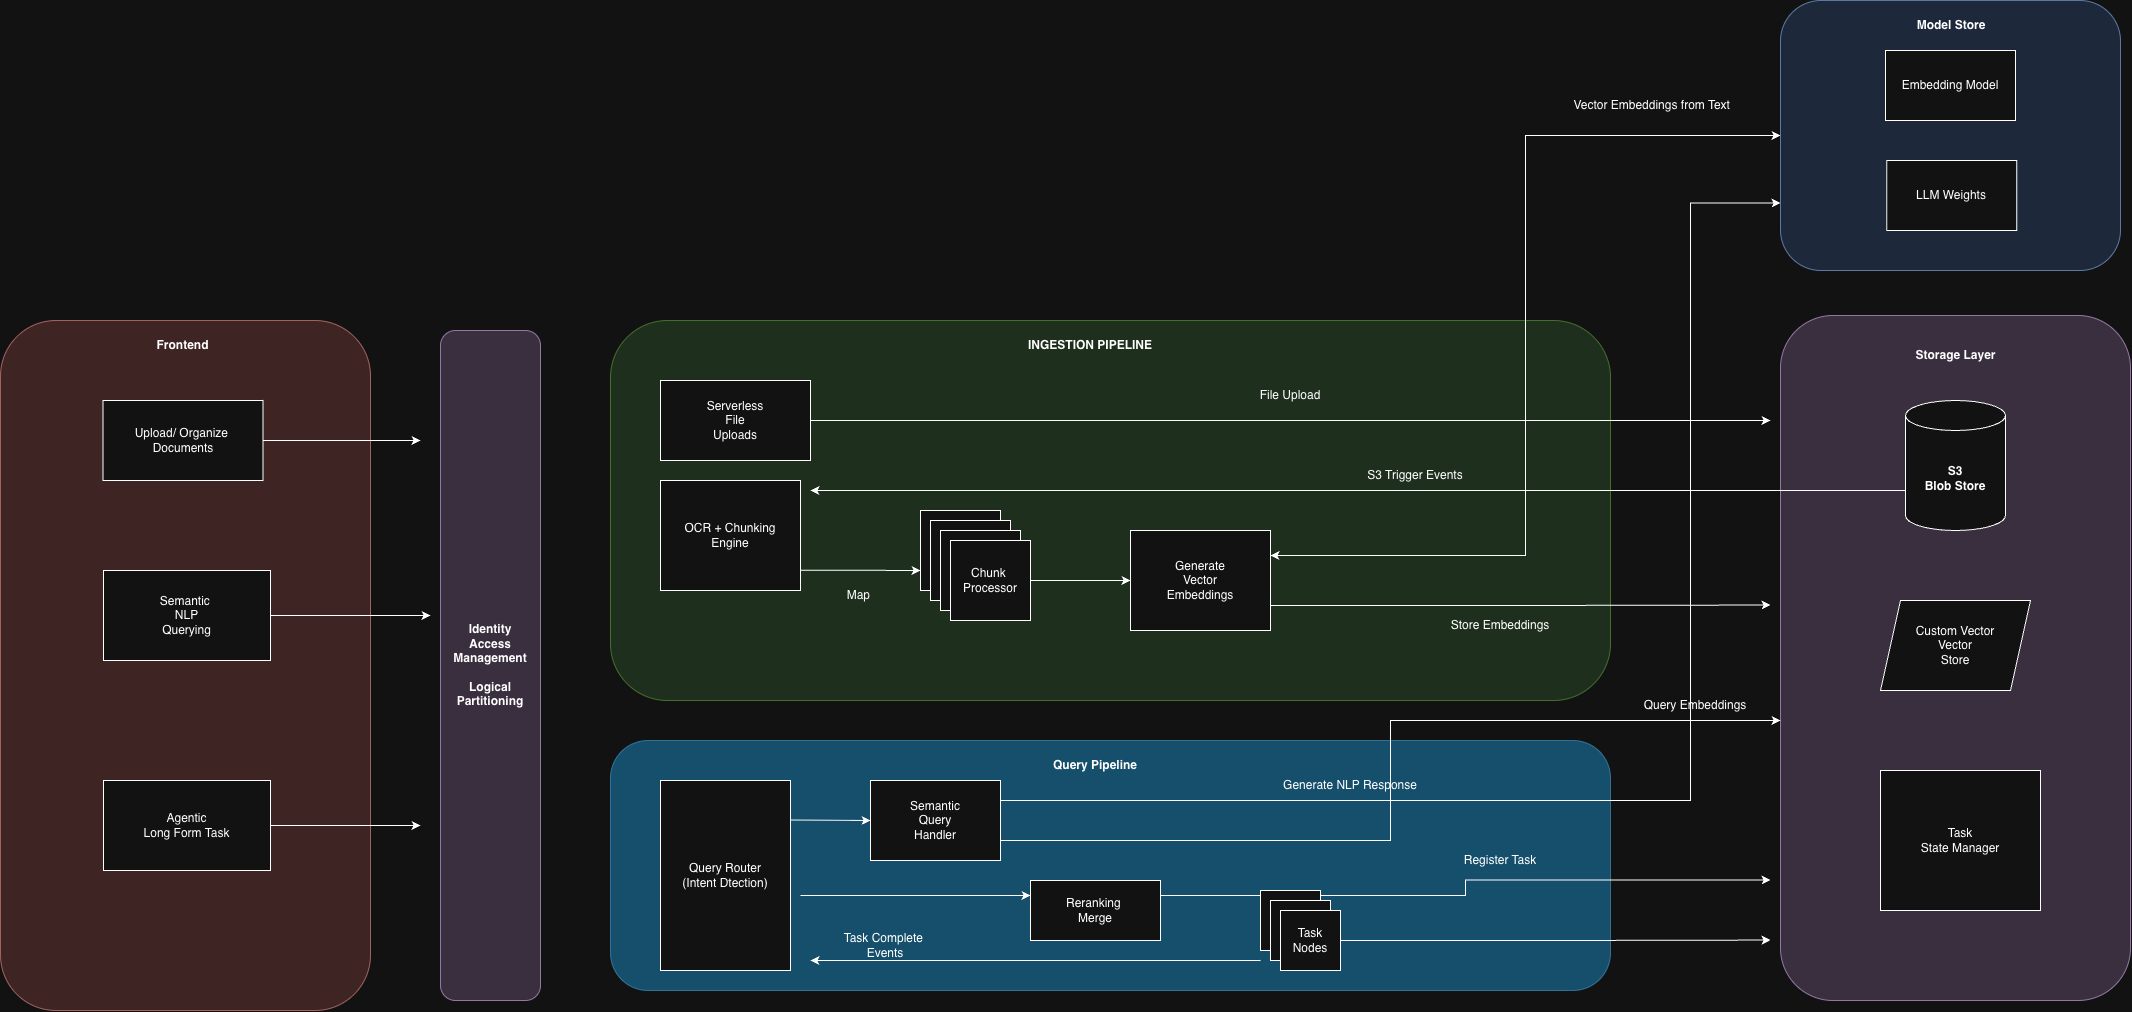
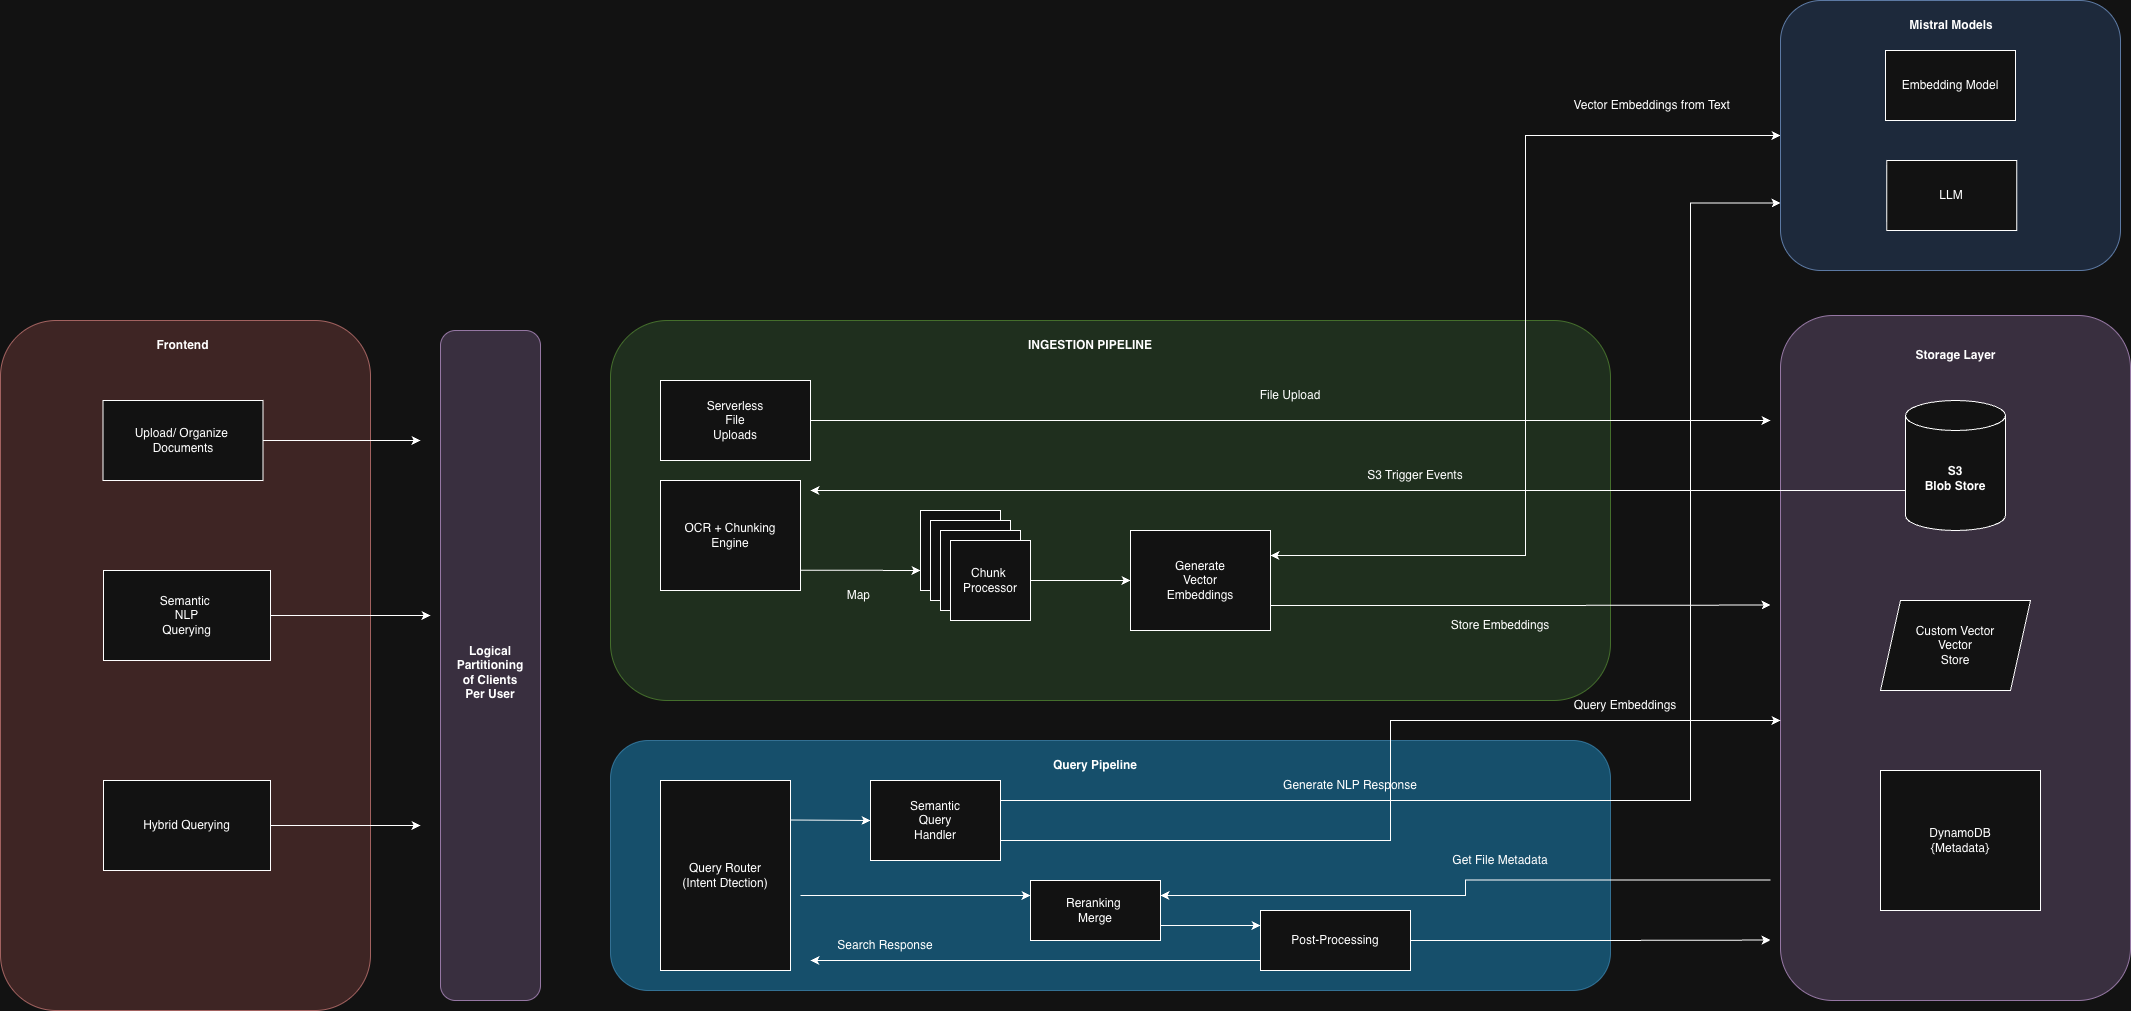
readme updated

diff --git a/README.md b/README.md
@@ -1,8 +1,9 @@
 # Stack AI RAG App
 
-lets setup a v1 architecture implementation for the RAG app , this could evovle once we dive deeper
 
 ![system-architecture](./statics/Stack-RAG-system-architecture.png)
+
+Retrieval is implemented directly in application code and SQL. The project does not use LangChain, LlamaIndex, Haystack, a managed vector database, an external search library, or any external RAG framework.
 
 ### The implementation is split into independently scalalbale microservices
 -  Uploading service
@@ -10,7 +11,7 @@ lets setup a v1 architecture implementation for the RAG app , this could evovle 
 -  Embedding service
 -  Query Engine
 
-Note: the current ingestion endpoint is a serverless uploader instead of a FastAPI multipart endpoint. The query service itself is FastAPI. This split is intentional because large PDF bytes should go directly to object storage, while FastAPI remains focused on low-latency query traffic.
+
 
 ## System Overview
 
@@ -21,6 +22,8 @@ Note: the current ingestion endpoint is a serverless uploader instead of a FastA
 5. `SAI-Embedding-Service` consumes the completion event, embeds each chunk with Mistral embeddings, and stores chunk text, metadata, full-text search data, and embeddings in PostgreSQL.
 6. `SAI-Query-Engine` exposes FastAPI query endpoints. It plans the user query, decides whether retrieval is needed, rewrites retrieval queries, performs semantic or hybrid search, reranks/filters citations, and calls Mistral chat completion to generate a cited answer.
 7. The Angular UI calls the upload and query APIs so users can upload PDFs and chat with the knowledge base.
+
+Note: the current ingestion endpoint is a serverless uploader instead of a FastAPI multipart endpoint. The query service itself is FastAPI. This split is intentional because large PDF bytes should go directly to object storage, while FastAPI remains focused on low-latency query traffic.
 
 ## Design Considerations
 